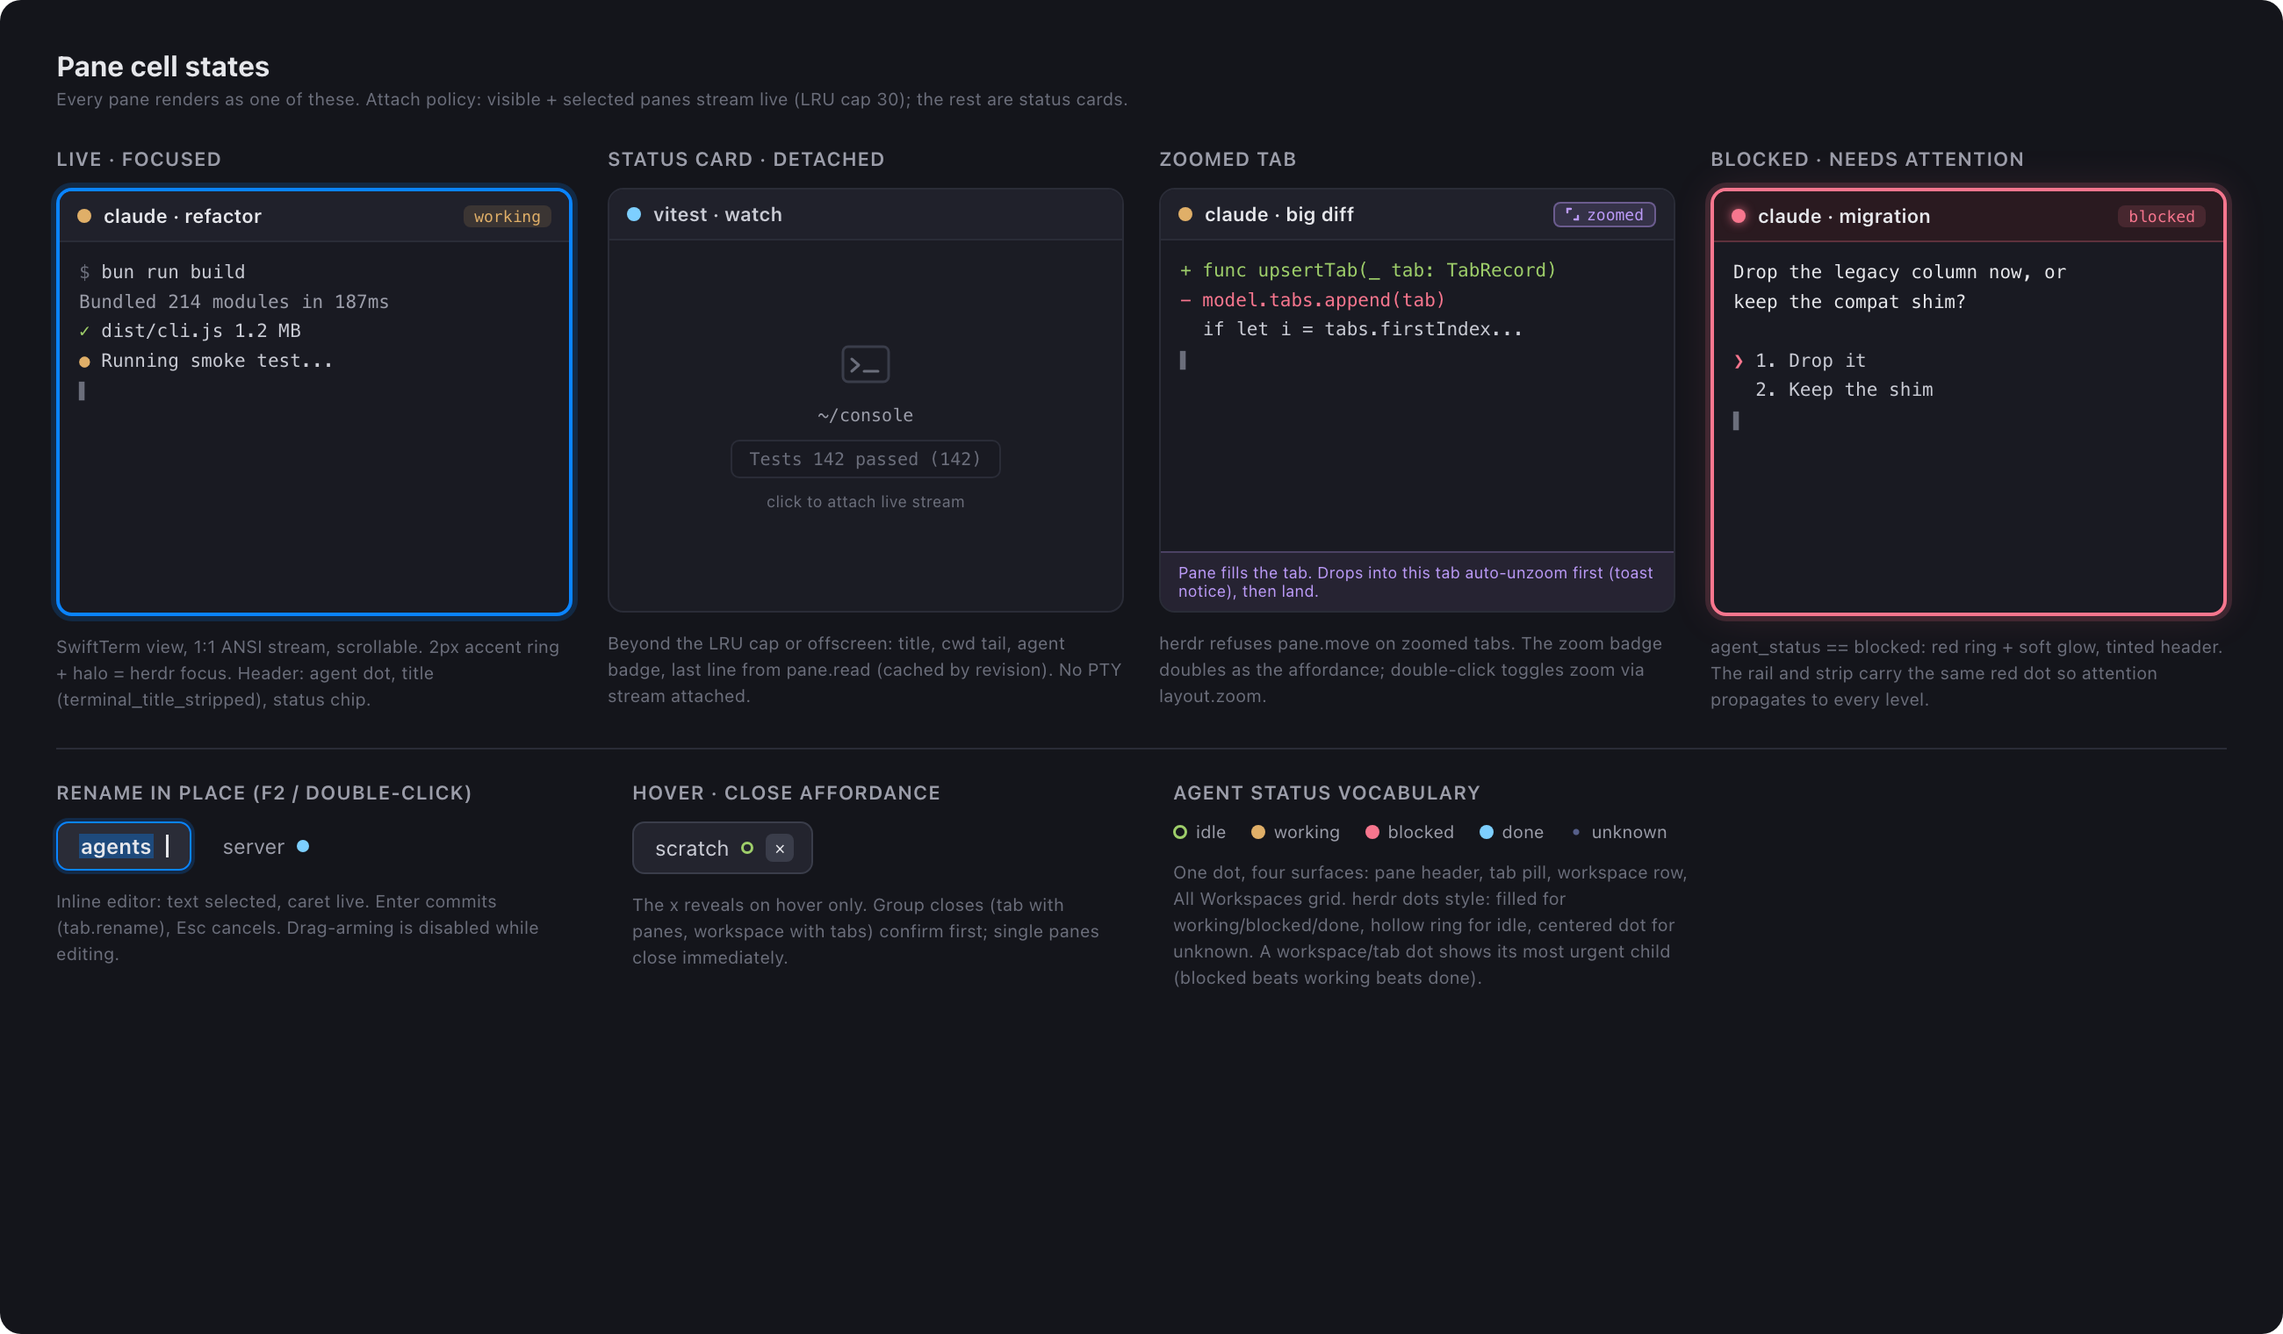
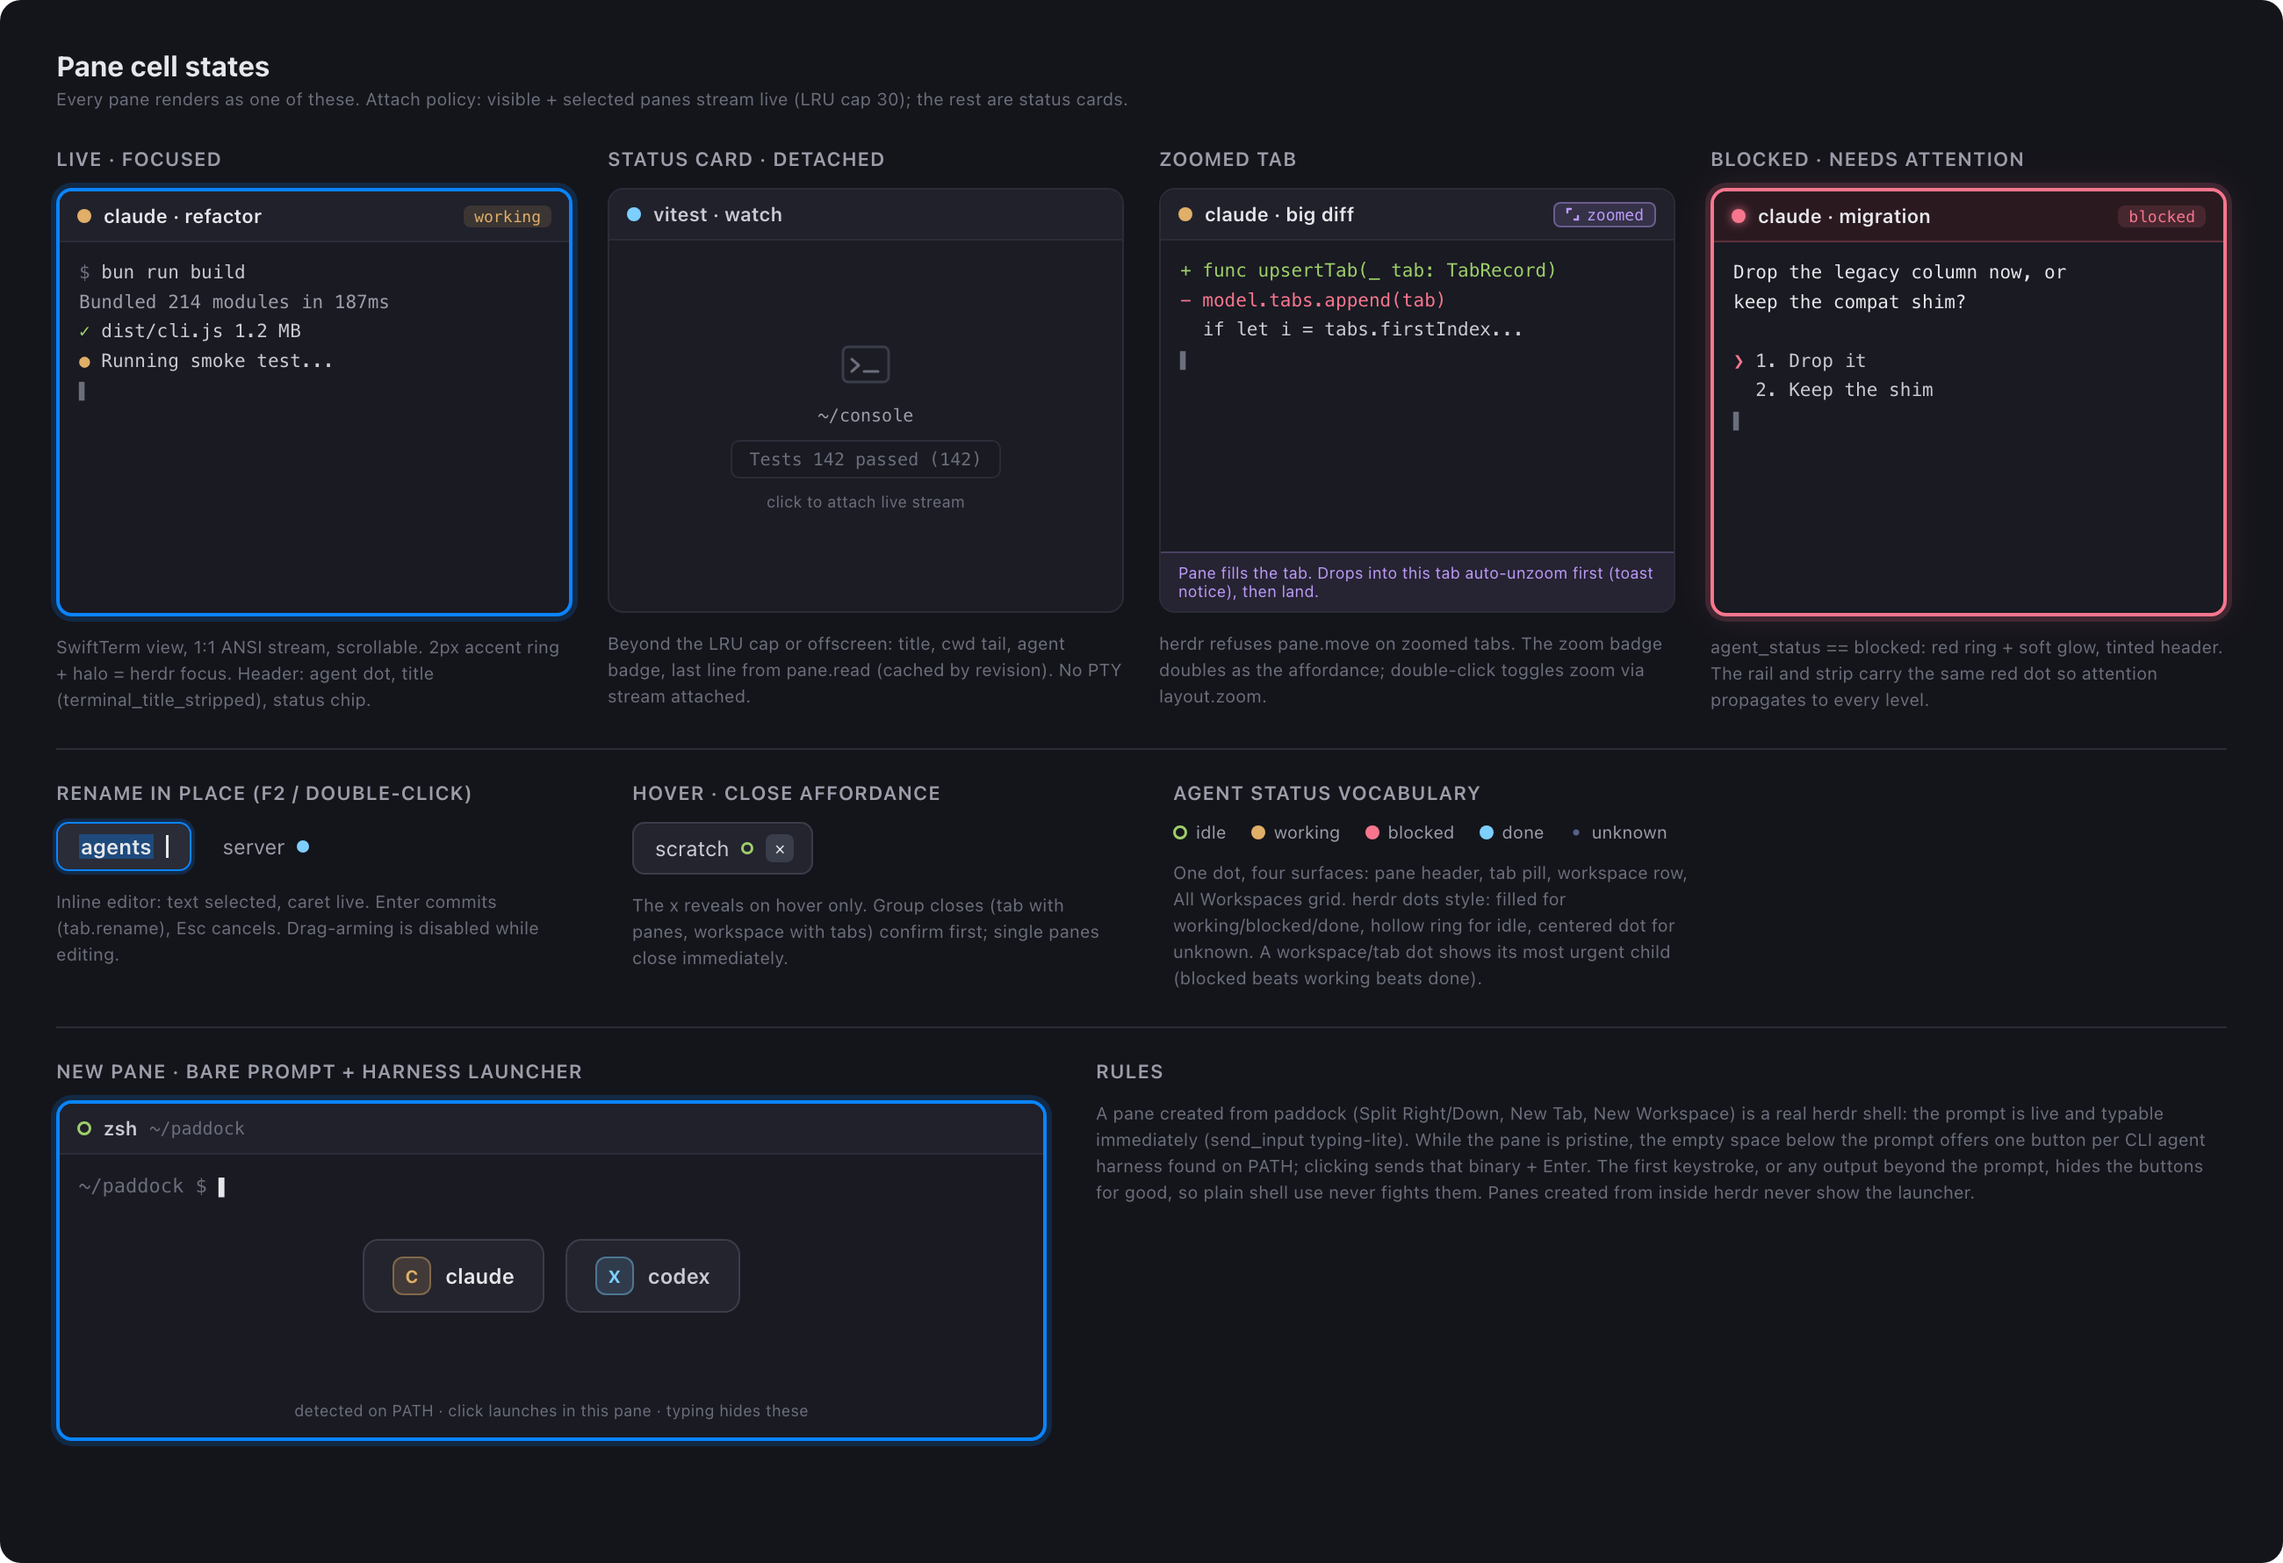
spec+plan+design: v1 typing-lite via send_input, new-pane harness launcher, real creation verbs
Claude-Session: https://claude.ai/code/session_01JFFjTKEtAPzB2Y3Ruktwxp

diff --git a/docs/design/src/PaneStates.dc.html b/docs/design/src/PaneStates.dc.html
@@ -15,7 +15,7 @@
     .sub { font-size: 10px; color: #6B6E7B; line-height: 1.5; }
   </style>
 </helmet>
-<div style="box-sizing: border-box; width: 1300px; height: 760px; background: #14151B; padding: 28px 32px; display: flex; flex-direction: column; gap: 20px; border-radius: 12px;">
+<div style="box-sizing: border-box; width: 1300px; height: 890px; background: #14151B; padding: 28px 32px; display: flex; flex-direction: column; gap: 20px; border-radius: 12px;">
 
   <div>
     <div style="font-size: 16px; font-weight: 700; color: #E6E7EB;">Pane cell states</div>
@@ -146,6 +146,37 @@
         <div style="display: flex; align-items: center; gap: 5px;"><div style="width: 8px; height: 8px; border-radius: 4px; background: radial-gradient(circle, #565F89 0 1.5px, transparent 2px);"></div><div style="font-size: 10px; color: #9B9DA9;">unknown</div></div>
       </div>
       <div class="sub" style="max-width: 300px;">One dot, four surfaces: pane header, tab pill, workspace row, All Workspaces grid. herdr dots style: filled for working/blocked/done, hollow ring for idle, centered dot for unknown. A workspace/tab dot shows its most urgent child (blocked beats working beats done).</div>
+    </div>
+  </div>
+
+  <div style="border-top: 1px solid #2A2C37; padding-top: 18px; display: flex; gap: 28px; align-items: flex-start;">
+    <div style="display: flex; flex-direction: column; gap: 10px;">
+      <div class="label">NEW PANE · BARE PROMPT + HARNESS LAUNCHER</div>
+      <div style="width: 560px; height: 190px; display: flex; flex-direction: column; border-radius: 9px; overflow: hidden; border: 2px solid #0A84FF; box-shadow: 0 0 0 3px rgba(10,132,255,0.18); background: #191A22;">
+        <div style="height: 28px; flex: none; display: flex; align-items: center; gap: 7px; padding: 0 10px; background: #20212B; border-bottom: 1px solid #2A2C37;">
+          <div style="width: 8px; height: 8px; border-radius: 4px; box-sizing: border-box; background: transparent; border: 1.5px solid #9ECE6A;"></div>
+          <div style="font-size: 11px; font-weight: 600; color: #C9CBD4;">zsh</div>
+          <div class="mono" style="font-size: 10px; color: #6B6E7B;">~/paddock</div>
+        </div>
+        <div style="flex: 1; position: relative; padding: 9px 11px;">
+          <div class="mono" style="font-size: 11px; line-height: 1.6; color: #C9CBD4;"><span style="color: #6B6E7B;">~/paddock $</span> <span style="color: #E6E7EB;">▌</span></div>
+          <div style="position: absolute; left: 0; right: 0; top: 48px; display: flex; align-items: center; justify-content: center; gap: 12px;">
+            <div style="display: flex; align-items: center; gap: 8px; padding: 9px 16px; border-radius: 9px; background: #23242E; border: 1px solid #3A3D4A;">
+              <div style="width: 20px; height: 20px; border-radius: 6px; background: rgba(224,175,104,0.16); border: 1px solid rgba(224,175,104,0.4); display: flex; align-items: center; justify-content: center; font-size: 10px; font-weight: 700; color: #E0AF68;">C</div>
+              <div style="font-size: 12px; font-weight: 600; color: #E6E7EB;">claude</div>
+            </div>
+            <div style="display: flex; align-items: center; gap: 8px; padding: 9px 16px; border-radius: 9px; background: #23242E; border: 1px solid #3A3D4A;">
+              <div style="width: 20px; height: 20px; border-radius: 6px; background: rgba(125,207,255,0.14); border: 1px solid rgba(125,207,255,0.4); display: flex; align-items: center; justify-content: center; font-size: 10px; font-weight: 700; color: #7DCFFF;">X</div>
+              <div style="font-size: 12px; font-weight: 600; color: #C9CBD4;">codex</div>
+            </div>
+          </div>
+          <div style="position: absolute; left: 0; right: 0; bottom: 10px; text-align: center; font-size: 9px; color: #6B6E7B;">detected on PATH · click launches in this pane · typing hides these</div>
+        </div>
+      </div>
+    </div>
+    <div style="display: flex; flex-direction: column; gap: 10px; flex: 1;">
+      <div class="label">RULES</div>
+      <div class="sub">A pane created from paddock (Split Right/Down, New Tab, New Workspace) is a real herdr shell: the prompt is live and typable immediately (send_input typing-lite). While the pane is pristine, the empty space below the prompt offers one button per CLI agent harness found on PATH; clicking sends that binary + Enter. The first keystroke, or any output beyond the prompt, hides the buttons for good, so plain shell use never fights them. Panes created from inside herdr never show the launcher.</div>
     </div>
   </div>
 </div>

diff --git a/docs/superpowers/plans/2026-09-10-paddock.md b/docs/superpowers/plans/2026-09-10-paddock.md
@@ -709,7 +709,23 @@ This is the protocol >= 22 surface the floor exists for. Capability gate mechani
 - [ ] **Step 2-4: Fail, implement, pass.**
 - [ ] **Step 5: Manual smoke on a scratch pane with 2000+ lines of history: scroll to top of live buffer, history region loads on demand; herdr's real viewport never moves.**
 - [ ] **Step 6: Commit** `git commit -m "content: deep history via pane.selection.read"`
-- [ ] **Step 7: CHECKPOINT 2 (hands-on STOP).** The full read-only product: live 1:1 panes, scrollback, deep history, copy-on-selection. Matt tries it; feedback folds in before Phase 3.
+
+### Task 18c: Typing-lite + new-pane launcher
+
+**Files:**
+- Create: `Sources/PaddockCore/Input/InputRouter.swift`, `Sources/Paddock/Views/PaneLauncherOverlay.swift`
+- Modify: `Sources/Paddock/Views/PaneTerminalView.swift`, `Sources/Paddock/ViewModels/SessionViewModel.swift`
+- Test: `Tests/PaddockCoreTests/InputRouterTests.swift`
+
+**Interfaces:**
+- Consumes: `HerdrClient.requestRaw` (`pane.send_input {pane_id, text, keys}`), the focused-pane selection state, `pane.split`/`tab.create`/`workspace.create` for pristine-pane provenance.
+- Produces: `struct InputRouter` mapping keystrokes to send_input calls for the paddock-focused pane only: plain characters batch into `text` (flush on 16ms debounce or a named key), named keys map to `keys` (`enter`, `esc`, `up/down/left/right`, `backspace`, `tab`, `ctrl-<char>` combos). Typing is disabled while a drag is live or an inline rename is editing. Echo comes back over the observe stream (spike 3 timing: 24-111ms), no local echo. `HarnessRoster` probes PATH for known CLI agents (`claude`, `codex`; roster extensible via a constant) at launch. `PaneLauncherOverlay` renders on PRISTINE paddock-created panes (created this session, zero keystrokes sent, screen content at most the prompt rows): bare prompt visible on top, harness buttons centered in the space below; clicking a button sends `<binary>\n`; the overlay hides permanently for that pane on first keystroke or first output beyond the prompt.
+
+- [ ] **Step 1: Failing tests** (router batches "ls" + Enter into one text flush + enter key against FakeHerdrServer's recorded params; ctrl-c maps to `keys: ["ctrl-c"]`; keystrokes while renaming are dropped; launcher state machine: pristine shows, first keystroke hides, output beyond prompt hides, herdr-created panes never show).
+- [ ] **Step 2-4: Fail, implement, pass.**
+- [ ] **Step 5: Manual smoke on a scratch session: type a command into a paddock pane and watch it execute; create a split from paddock and launch a stub harness from the overlay.**
+- [ ] **Step 6: Commit** `git commit -m "input: typing-lite via send_input, new-pane harness launcher"`
+- [ ] **Step 7: CHECKPOINT 2 (hands-on STOP).** The full mirror + typing-lite product: live 1:1 panes, scrollback, deep history, copy-on-selection, typing, new-pane launcher. Matt tries it; feedback folds in before Phase 3.
 
 ---
 
@@ -938,7 +954,7 @@ Rules: inside a pane frame, the outer 20% band per side yields `.paneEdge` (corn
 - Test: `Tests/PaddockCoreTests/SessionViewModelTests.swift` (extend)
 
 **Interfaces:**
-- Produces: double-click/F2 inline rename (drag-arming disabled while editing) issuing `renamePane/Tab/Workspace`; hover-reveal close with `closeWorkspace` handling `workspace_group_close_required` by re-asking with `closeGroup: true` after a confirmation dialog; zoom toggle affordance; context menus on pane/tab/workspace exposing every drag outcome as commands (Split Right/Down, Move to..., Rename, Close, Zoom, Focus in herdr); `MoveToDialog` lists workspaces/tabs and compiles the same `OpPlan` via the planner (keyboard + accessibility parity path); keyboard move/swap for the selected pane (Cmd+Option+arrows compile `.paneEdge`/swap plans through the same planner, spec keyboard parity).
+- Produces: double-click/F2 inline rename (drag-arming disabled while editing) issuing `renamePane/Tab/Workspace`; hover-reveal close with `closeWorkspace` handling `workspace_group_close_required` by re-asking with `closeGroup: true` after a confirmation dialog; zoom toggle affordance; context menus on pane/tab/workspace exposing every drag outcome as commands (Move to..., Rename, Close, Zoom, Focus in herdr) plus real creation: Split Right/Down spawns a NEW shell pane via `pane.split {direction, cwd: <pane cwd>, focus: true}`, and the strip/rail + zones accept plain clicks calling `tab.create`/`workspace.create` (creation is direct client calls, not planned ops; no undo journal entry in v1); `MoveToDialog` lists workspaces/tabs and compiles the same `OpPlan` via the planner (keyboard + accessibility parity path); keyboard move/swap for the selected pane (Cmd+Option+arrows compile `.paneEdge`/swap plans through the same planner, spec keyboard parity).
 
 - [ ] **Step 1: Failing view-model tests** (rename commits trimmed non-empty labels only; group-close flow: first failure with `workspace_group_close_required` triggers `pendingGroupClose`, confirm re-issues with closeGroup; MoveTo selection compiles the identical plan the drag would).
 - [ ] **Step 2-4: Fail, implement, pass.** Context menus also carry the right-click routing toggle ("Right-click goes to: herdr menu | pane app") issuing `pane.input.set {pane_id, right_click: "pane"|"herdr"}` and reflecting the live state (herdr 0.9; the Option+click one-off passthrough gesture is designed but ships with the v1.5 input channel; plain right-click in paddock always opens paddock's own menu). **Step 5: Commit** `git commit -m "ui: rename, close, zoom, context menus, move-to dialog"`
@@ -1047,6 +1063,8 @@ func testDragPaneToRightEdgeSplitsCrossTab() throws {
 | copy on selection | drag-select 2 lines in a live pane | NSPasteboard contains the 2 lines; herdr scroll offset unchanged via snapshot |
 | right-click routing | toggle "pane app" in a pane's context menu | pane.get shows right-click routed to pane; toggle back verified |
 | toast jump | seed a pane transition to blocked in an unfocused workspace | toast appears; click; snapshot shows that workspace/tab/pane focused |
+| typing round trip | click pane, type "echo hi" + Enter | pane.read visible shows hi within convergence window |
+| new-pane launcher | context-menu Split Right; click stub harness button | new pane exists in snapshot; pane.read shows the stub's marker output |
 | rename cancel | double-click, type, Esc | label unchanged |
 | close pane / tab / workspace | hover-reveal x | counts drop by one |
 | group-close prompt | seed a worktree-linked workspace group, close primary | dialog appears; confirm closes the group |

diff --git a/docs/superpowers/specs/2026-09-10-paddock-design.md b/docs/superpowers/specs/2026-09-10-paddock-design.md
@@ -24,7 +24,7 @@ it is the seed of a full Mac-native alternate herdr controller.
 | Home | New repo `paddock`, built as `Contents/Helpers/Paddock.app` inside mattstack.app, launched from the tray |
 | Pane fidelity | Full 1:1 terminal content, scrollable, live. Deep history (scrollback beyond the streamed/backfilled buffer, via `pane.selection.read`) is IN v1; it is the feature the protocol floor exists for |
 | v1 scope | Full drag inventory (below) + rename/close/zoom/focus at all levels |
-| v1 input | None. Typing into panes is reserved for v1.5 (`terminal session control --takeover`, `pane.send_input`) |
+| v1 input | Typing-lite via `pane.send_input` (text + named keys: enter, esc, arrows, backspace, tab, ctrl combos): enough to run commands and drive agent TUI menus, with echo arriving over the observe stream (24-111ms). Full-fidelity raw input (mouse forwarding, kitty protocol, exclusive ownership) stays v1.5 (`terminal session control --takeover`) |
 | herdr version | Assume upgraded herdr: target the protocol >= 22 surface (`pane.scroll`, `pane.selection.read` era). Startup does `ping`; below the floor, paddock shows "run `herdr update`" and exits gracefully |
 | Process | Spike-first: nothing lands in the implementation plan unvalidated. Fully automated interactive e2e tests are the completion bar |
 | UI process | Design canvas + reference PNGs signed off before any UI code |
@@ -202,6 +202,17 @@ transform/opacity only, interruptible springs.
   mirroring third-party herdr toasts 1:1 needs an upstream herdr
   `notification.shown` event (documented ask, out of scope).
 
+- **New panes are real shells, born useful (v1):** paddock creates panes,
+  tabs and workspaces for real (`pane.split`, `tab.create`,
+  `workspace.create`, with cwd control); herdr spawns a genuine shell. A
+  pane created from paddock shows its bare prompt (typable immediately via
+  send_input) and fills the empty space below the prompt with launcher
+  buttons for the CLI agent harnesses installed on the machine (PATH probe
+  of a known roster: claude, codex, ...; extensible). Clicking one sends
+  `<binary>\n` to the pane. The buttons exist only while the pane is
+  pristine: the first keystroke or the first output beyond the prompt hides
+  them, so a user who just wants to run a command never fights them.
+
 ## Hands-on checkpoints
 
 The build pauses at natural try-it points so feedback lands while it is
@@ -266,9 +277,11 @@ session.
 
 ## Non-goals (v1)
 
-- No typing into panes, no mouse forwarding (v1.5: `terminal session control
-  --takeover` + `pane.send_input`; the pane component is already a terminal
-  emulator, so this is UX + ownership semantics, not rendering work).
+- No full-fidelity input: v1 typing is send_input-based (see Decisions), so
+  no mouse forwarding into panes, no kitty/raw protocol passthrough, no
+  exclusive input ownership (v1.5: `terminal session control --takeover`;
+  the pane component is already a terminal emulator, so the rest is UX +
+  ownership semantics, not rendering work).
 - No `herdr-client.sock` / client-shell endpoint usage (revisit only with
   upstream buy-in; it is the internal surface that streams cell grids).
 - No layout templates/snapshot library (`layout.apply` fresh-tab templating is
